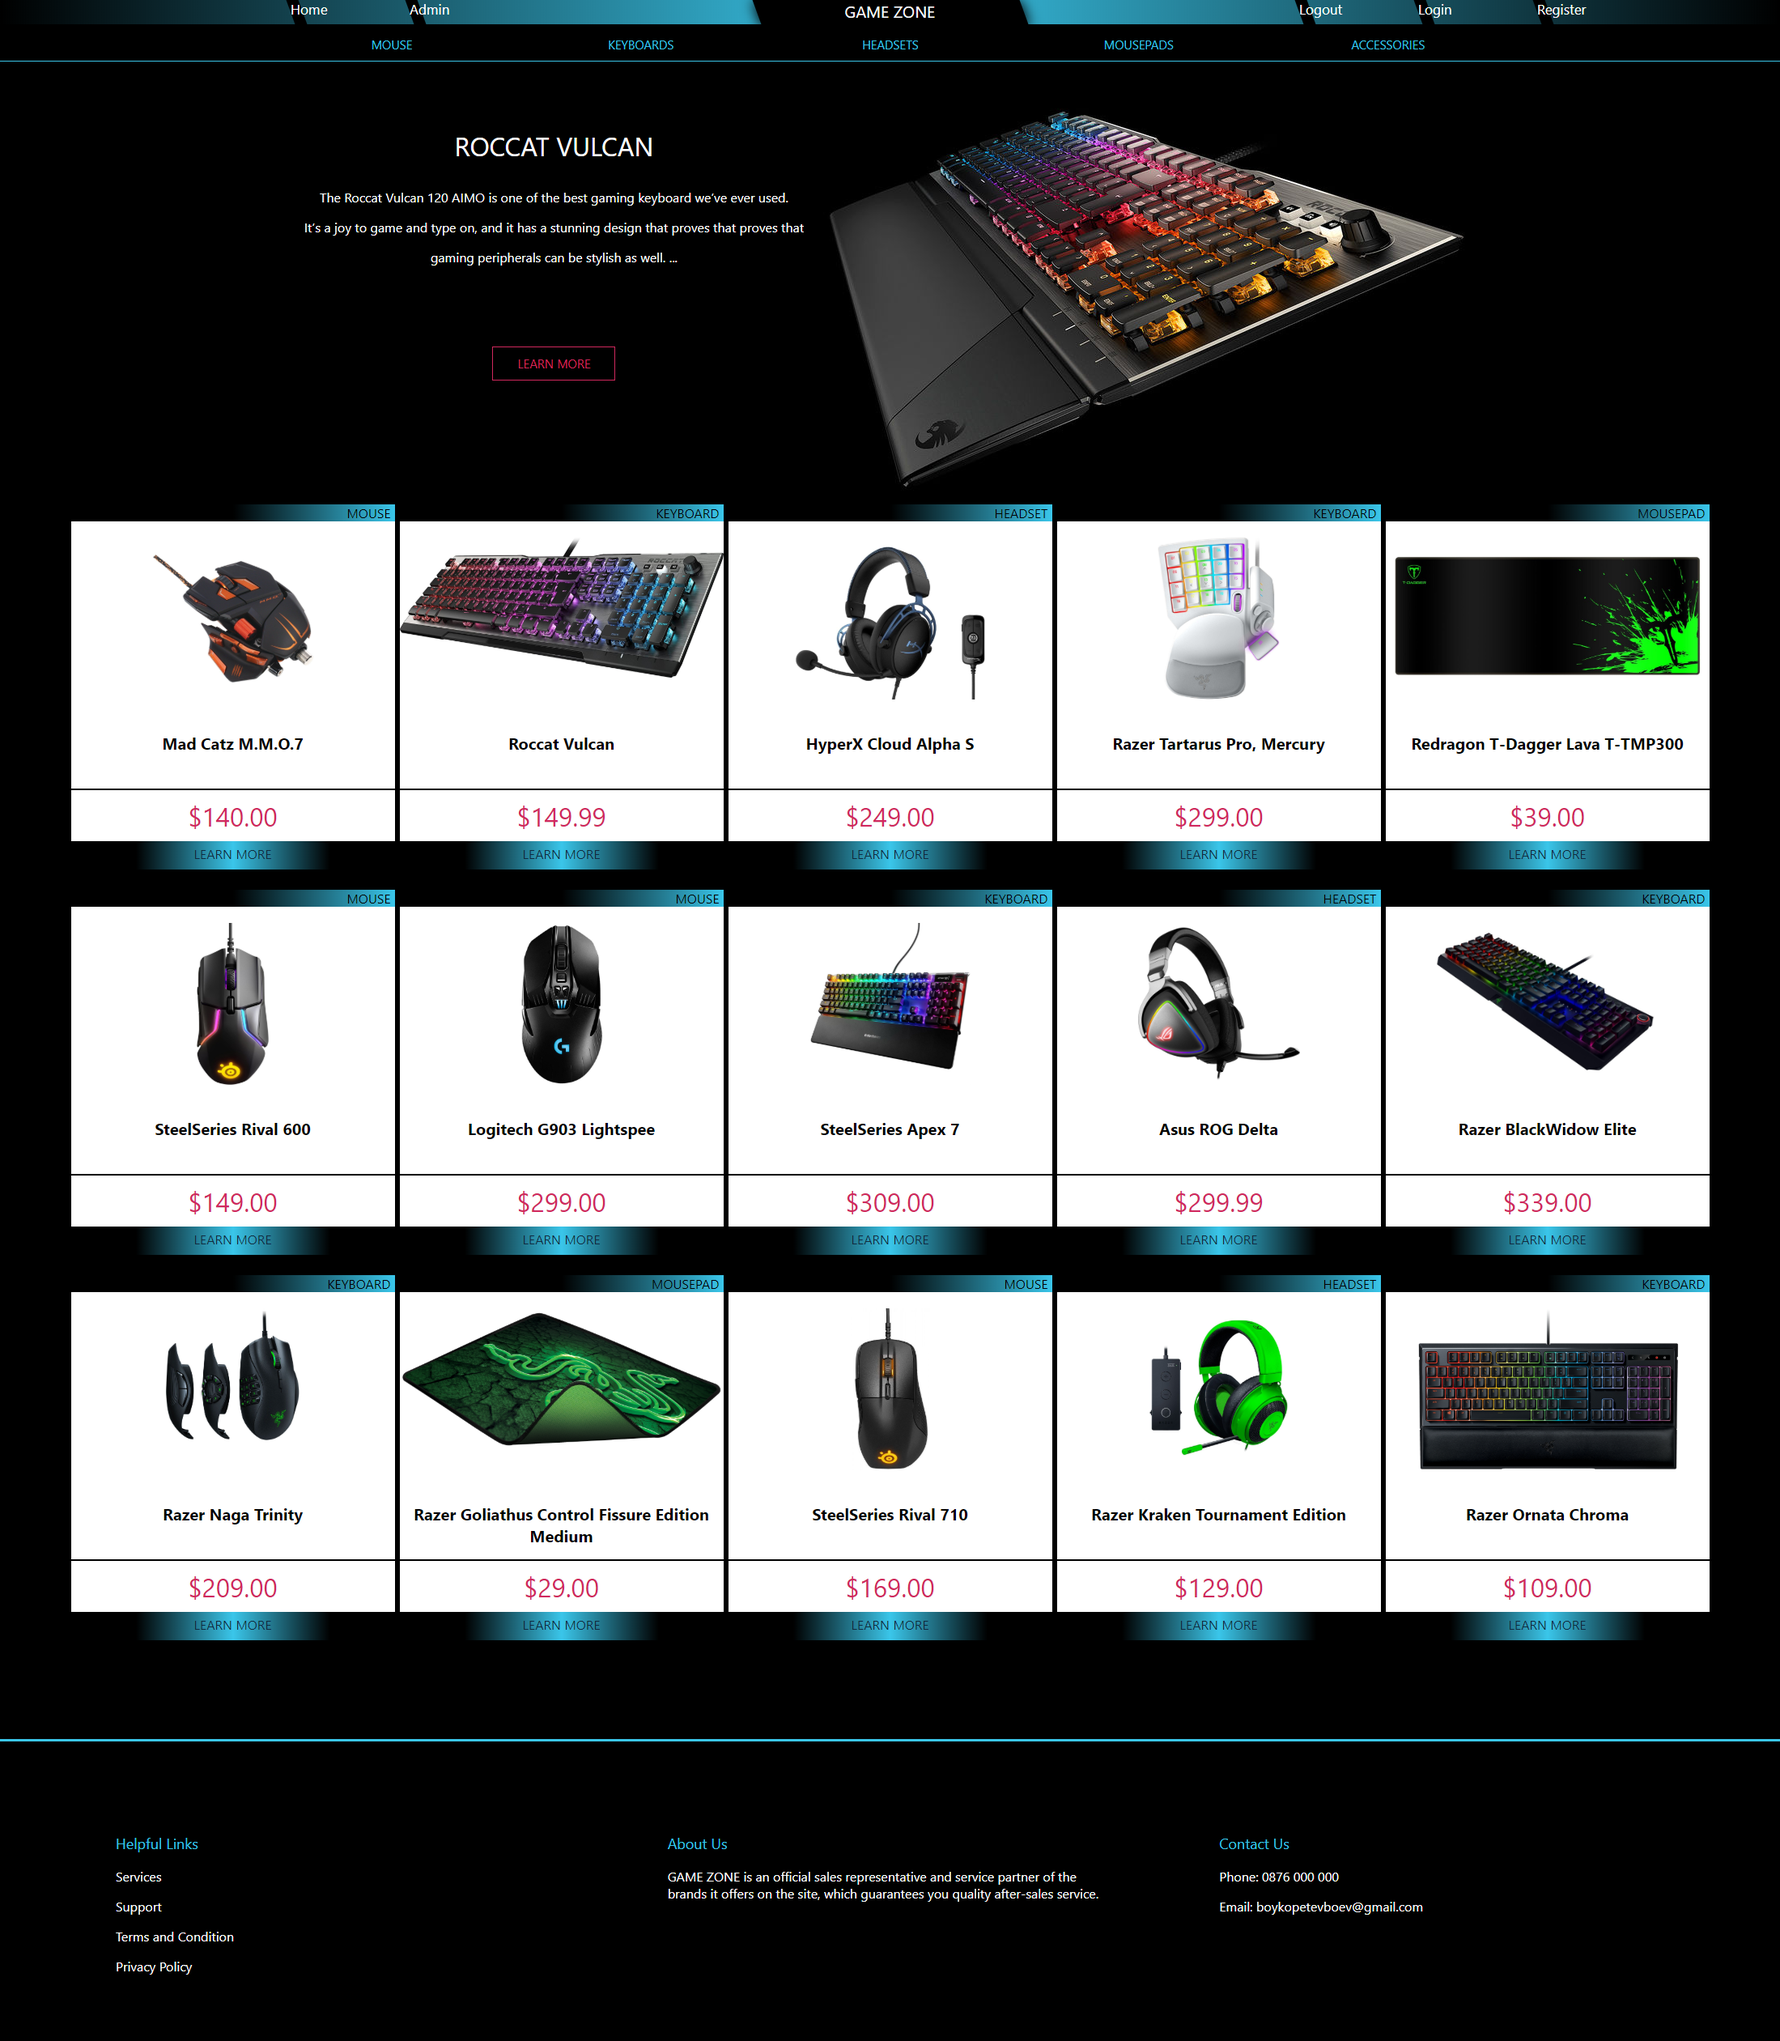
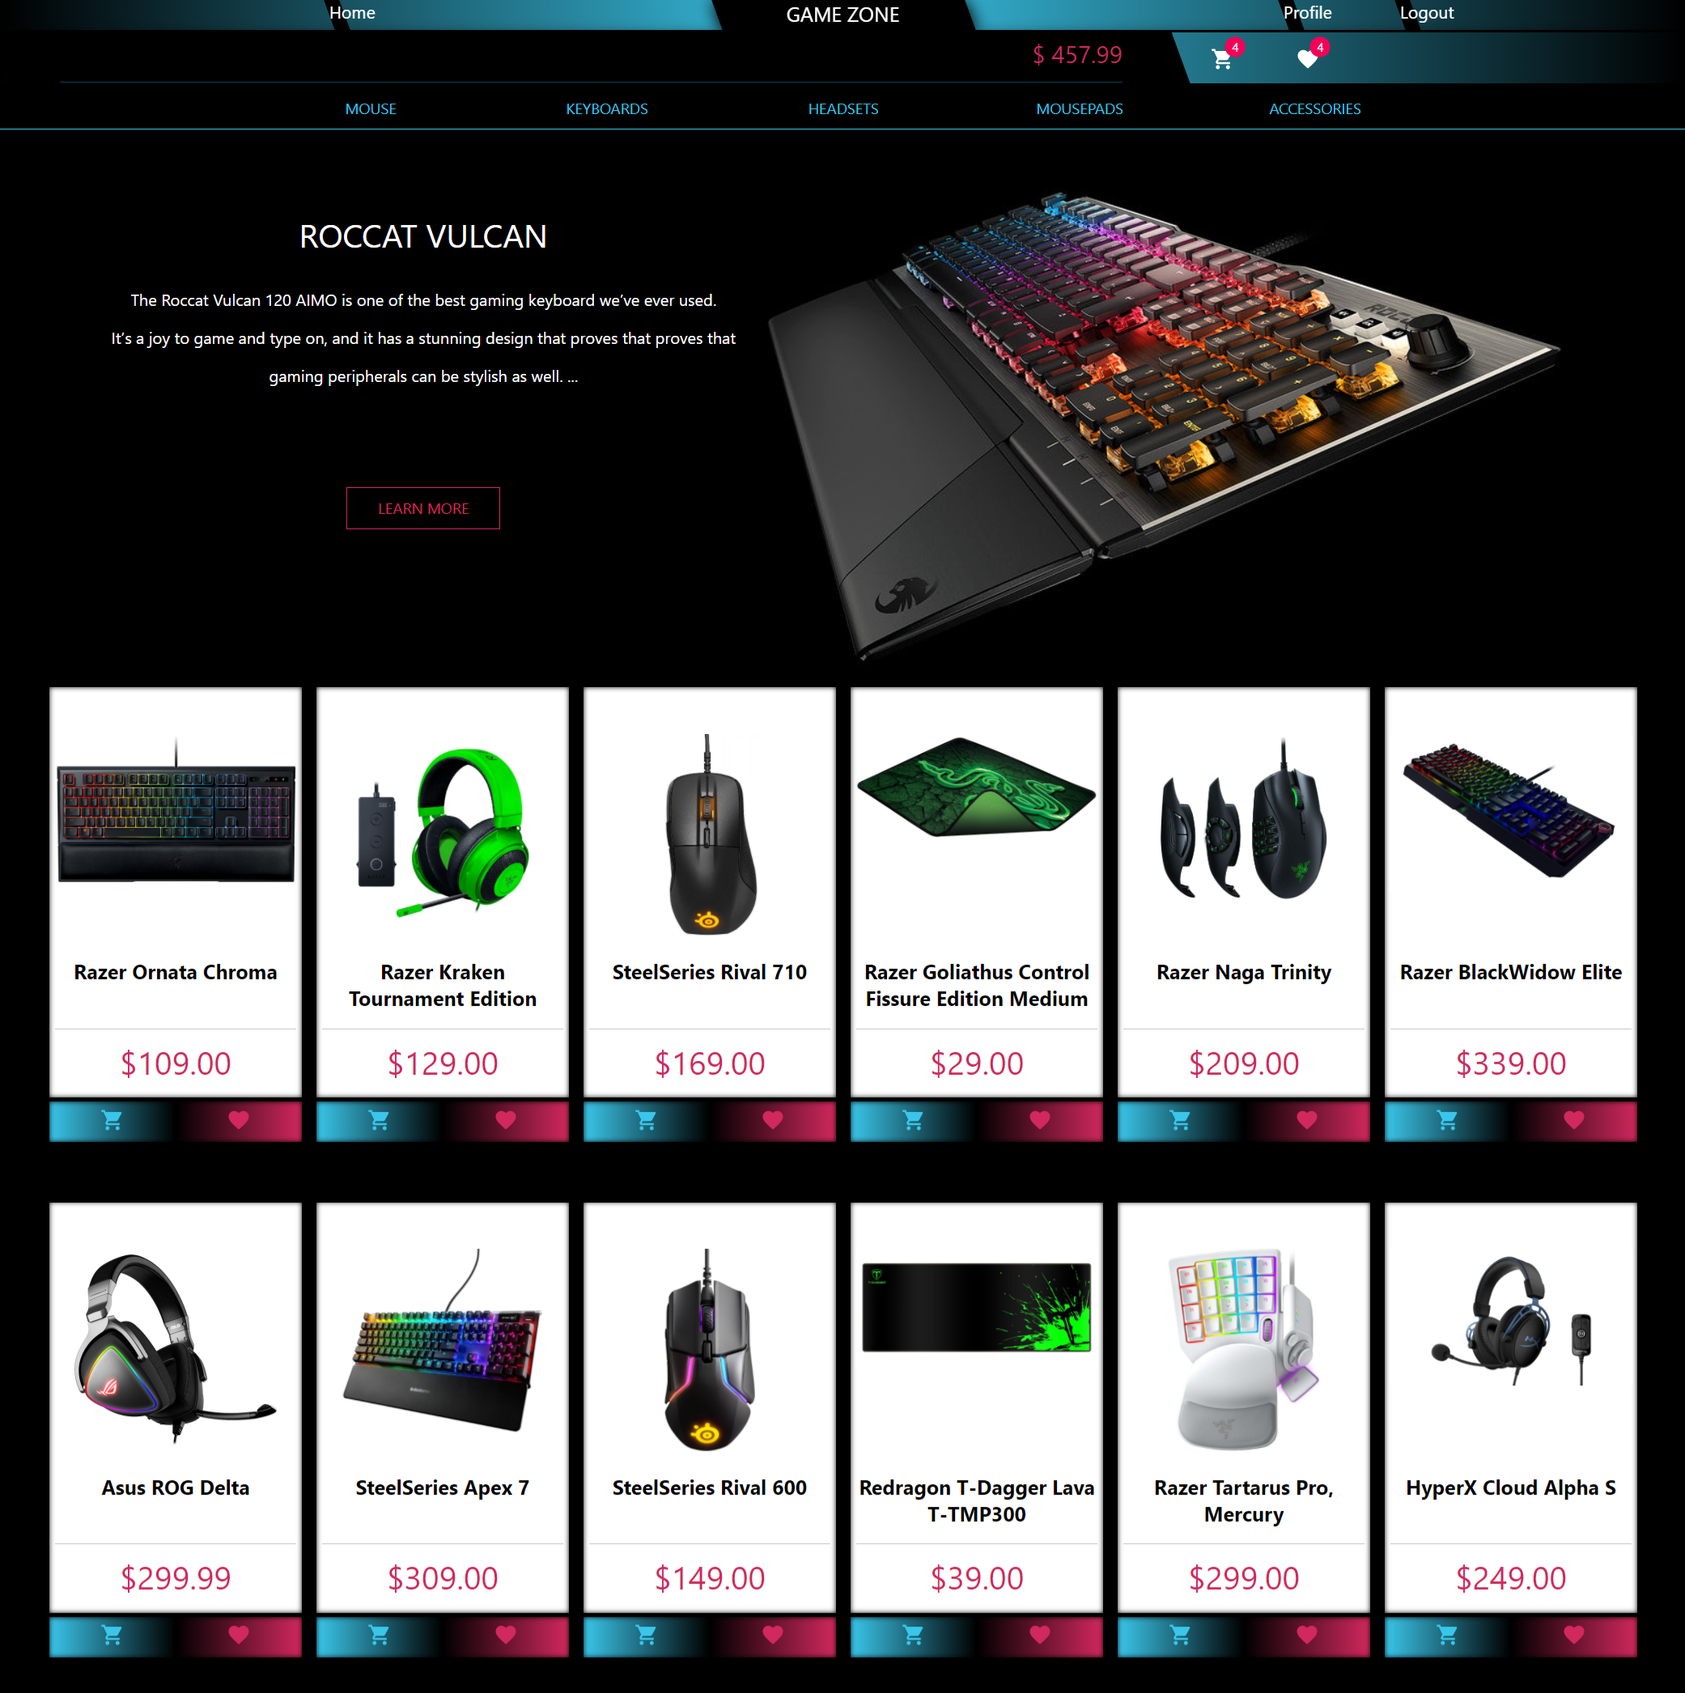
feat: route protection

diff --git a/src/router.js b/src/router.js
@@ -17,7 +17,7 @@ import Wishlist from './pages/user-wishlist-page';
 import UserContext from './Context';
 
 function App() {
-  const { loggedIn } = useContext(UserContext)
+  const { loggedIn, isAdmin } = useContext(UserContext)
   return (
 
     <Router>
@@ -25,14 +25,6 @@ function App() {
 
         <Route exact path='/'>
           <HomePage />
-        </Route>
-
-        <Route exact path='/login'>
-          {loggedIn ? <ErrorPage /> : <LoginPage />}
-        </Route>
-
-        <Route exact path='/register'>
-          {loggedIn ? <ErrorPage /> : <RegisterPage />}
         </Route>
 
         <Route exact path='/mouse'>
@@ -55,13 +47,35 @@ function App() {
           <HomePage filter='accessory' />
         </Route>
 
-        <Route exact path='/admin' component={AdminPage} />
-        <Route exact path='/admin/form' component={ProductFormPage} />
-        <Route exact path='/admin/users' component={UsersTable} />
-        <Route exact path='/admin/products' component={ProductTable} />
-        <Route exact path='/profile' component={UserPage} />
-        <Route exact path='/shopping-cart' component={ShoppingCart} />
-        <Route exact path='/wishlist' component={Wishlist} />
+        <Route exact path='/login'>
+          {loggedIn ? <ErrorPage /> : <LoginPage />}
+        </Route>
+        <Route exact path='/register'>
+          {loggedIn ? <ErrorPage /> : <RegisterPage />}
+        </Route>
+
+        <Route exact path='/admin'>
+          {isAdmin ? <AdminPage /> : <ErrorPage />}
+        </Route >
+        <Route exact path='/admin/form'>
+          {isAdmin ? <ProductFormPage /> : <ErrorPage />}
+        </Route>
+        <Route exact path='/admin/users' >
+          {isAdmin ? <UsersTable /> : <ErrorPage />}
+        </Route>
+        <Route exact path='/admin/products' >
+          {isAdmin ? <ProductTable /> : <ErrorPage />}
+        </Route>
+
+        <Route exact path='/profile' >
+          {loggedIn ? <UserPage /> : <ErrorPage />}
+        </Route>
+        <Route exact path='/shopping-cart' >
+          {loggedIn ? <ShoppingCart /> : <ErrorPage />}
+        </Route>
+        <Route exact path='/wishlist' >
+          {loggedIn ? <Wishlist /> : <ErrorPage />}
+        </Route>
 
         <Route exact path='/mouse/:id' component={ProductPage} />
         <Route exact path='/keyboard/:id' component={ProductPage} />

diff --git a/src/components/header/index.js b/src/components/header/index.js
@@ -9,7 +9,7 @@ import ShoppingInfo from '../shopping-info';
 function Header() {
     const context = useContext(UserContext);
     const history = useHistory();
-    const { loggedIn } = context;
+    const { loggedIn, isAdmin } = context;
 
     const logout = () => {
         context.logout();
@@ -22,7 +22,7 @@ function Header() {
 
                 <div className={styles.section}>
                     <HeaderButtons name='Home' path='/' />
-                    <HeaderButtons name='Admin' path='/admin' />
+                    {isAdmin ? <HeaderButtons name='Admin' path='/admin' /> : null}
                 </div>
 
                 <div className={styles.section}>
@@ -37,9 +37,9 @@ function Header() {
                     {loggedIn ? null : <HeaderButtons name='Login' path='/login' />}
                     {loggedIn ? null : <HeaderButtons name='Register' path='/register' />}
                 </div>
-                
+
             </nav>
-            {loggedIn ?  <ShoppingInfo /> : null }
+            {loggedIn ? <ShoppingInfo /> : null}
         </div>
     )
 }

diff --git a/src/Authorization.js b/src/Authorization.js
@@ -11,6 +11,7 @@ function getCookie(name) {
 function Authorization(props) {
     const [user, setUser] = useState(null);
     const [loggedIn, setLoggedIn] = useState(false);
+    const [isAdmin, setIsAdmin] = useState(false);
     const [loading, setLoading] = useState(true);
 
     useEffect(() => {
@@ -34,11 +35,15 @@ function Authorization(props) {
         setUser(user);
         setLoggedIn(true);
         setLoading(false);
+        if(user._id === '5f32a1136431e10fd0cce82f'){
+            setIsAdmin(true);
+        }
     }
 
     const logout = () => {
         document.cookie = 'GameZoneToken=; expires=Thu, 01 Jan 1970 00:00:01 GMT;';
         setLoggedIn(false);
+        setIsAdmin(false)
         setUser(null);
         setLoading(false);
     }
@@ -50,6 +55,7 @@ function Authorization(props) {
     return (
         <UserContext.Provider value={{
             loggedIn,
+            isAdmin,
             user,
             login,
             logout
